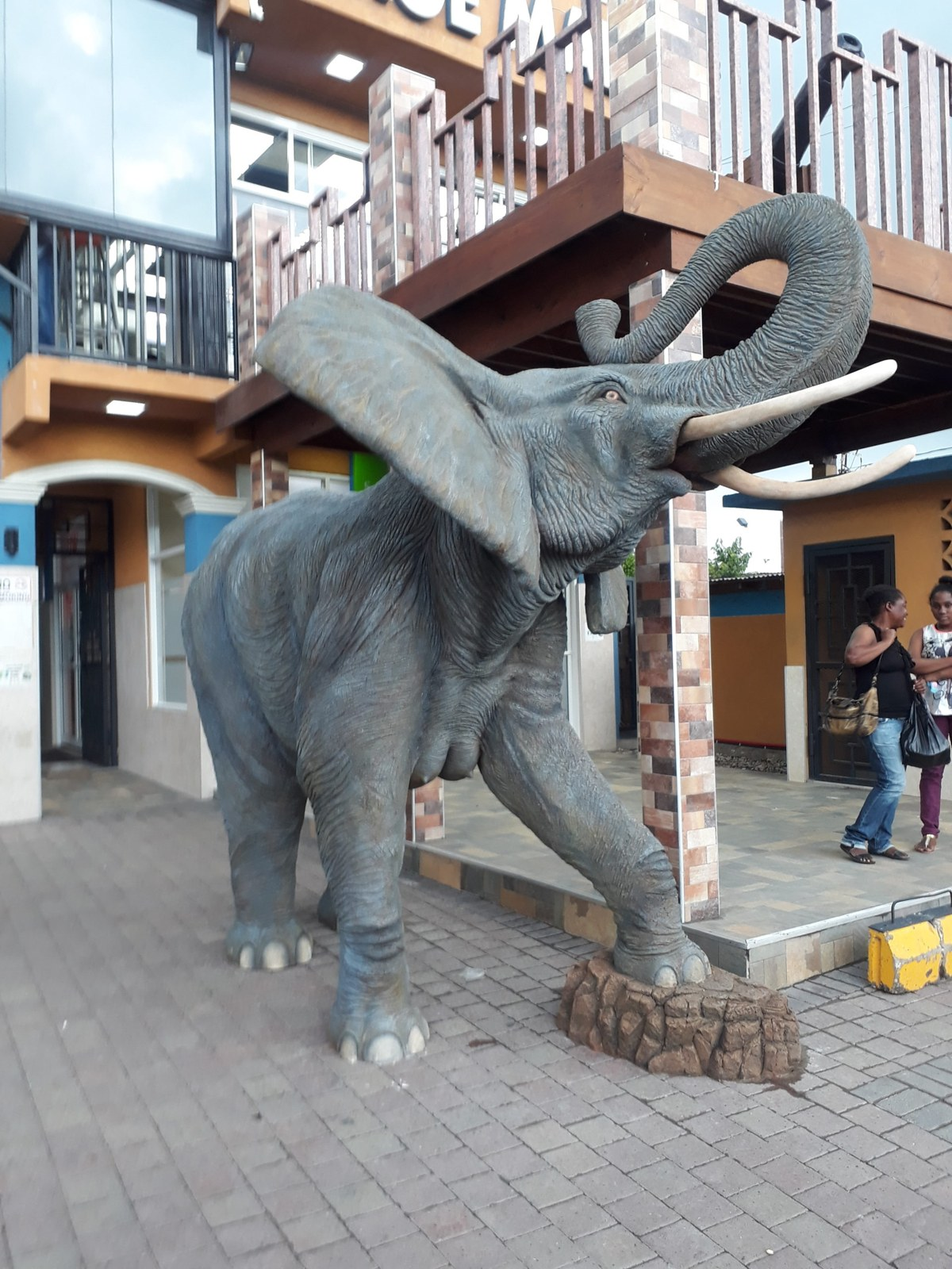
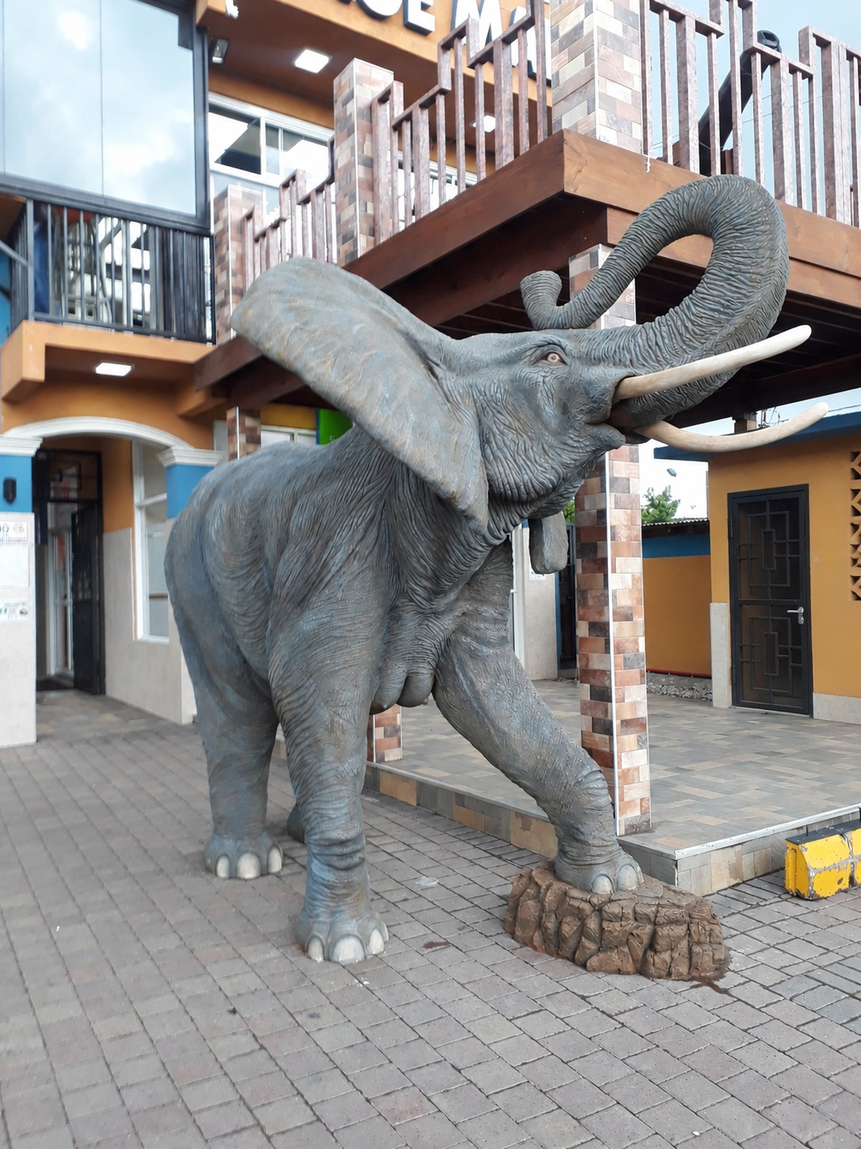
Protect elephant visitor privacy, fill horse cover and credit Hellshire image

diff --git a/work.html b/work.html
@@ -9,4 +9,4 @@
 <article class="editorial-project reveal" id="selected-project-8"><div class="editorial-media"><img src="images/hellshire-entrance.jpg" alt="Castle-shaped entrance arch welcoming visitors to Hellshire Beach" width="800" height="600" loading="lazy" style="display:block;width:100%;height:100%;object-fit:cover;object-position:center;object-fit:cover;object-position:center"></div><div class="editorial-copy"><h2>Hellshire Beach</h2><p class="editorial-meta">Hellshire · Jamaica</p><p class="editorial-type">Architectural &amp; sculptural structures</p><p class="editorial-description">Design and construction work for Hellshire Beach, including an entrance vestibule and gazebos.</p><div class="editorial-links"><a href="project-hellshire-beach.html">PROJECT<svg class="project-cta-arrow" viewBox="0 0 20 20" fill="none" stroke="currentColor" stroke-width="1.5" stroke-linecap="square" stroke-linejoin="miter" aria-hidden="true" focusable="false"><g transform="rotate(0 10 10)"><path d="M4 16 16 4M5 4h11v11"/></g></svg></a><a href="press-hellshire-beach.html">PRESS<svg class="project-cta-arrow" viewBox="0 0 20 20" fill="none" stroke="currentColor" stroke-width="1.5" stroke-linecap="square" stroke-linejoin="miter" aria-hidden="true" focusable="false"><g transform="rotate(0 10 10)"><path d="M4 16 16 4M5 4h11v11"/></g></svg></a></div></div></article>
 <article class="editorial-project reveal" id="selected-project-16"><div class="editorial-media"><img src="images/usain/usain-7811.jpg" alt="Usain Bolt portrait sculpture in his signature victory pose with the Jamaican flag" width="1800" height="1200" loading="lazy" style="display:block;width:100%;height:100%;object-fit:cover;object-position:center"></div><div class="editorial-copy"><h2>Usain Bolt</h2><p class="editorial-meta">S Hotel · Montego Bay</p><p class="editorial-type">Portrait sculpture</p><p class="editorial-description">A portrait of Usain Bolt in his signature victory pose, holding the Jamaican flag, created for S Hotel Montego Bay.</p><div class="editorial-links"><a href="project-usain-bolt.html">PROJECT<svg class="project-cta-arrow" viewBox="0 0 20 20" fill="none" stroke="currentColor" stroke-width="1.5" stroke-linecap="square" stroke-linejoin="miter" aria-hidden="true" focusable="false"><g transform="rotate(0 10 10)"><path d="M4 16 16 4M5 4h11v11"/></g></svg></a><a href="press-usain-bolt.html">PRESS<svg class="project-cta-arrow" viewBox="0 0 20 20" fill="none" stroke="currentColor" stroke-width="1.5" stroke-linecap="square" stroke-linejoin="miter" aria-hidden="true" focusable="false"><g transform="rotate(0 10 10)"><path d="M4 16 16 4M5 4h11v11"/></g></svg></a></div></div></article>
 <article class="editorial-project reveal" id="selected-project-12"><div class="editorial-media" style="background:transparent"><img src="images/miss-lou/miss-lou-work-landscape.jpg" alt="Full Miss Lou sculpture with raised hands and traditional dress at S Hotel" width="1536" height="864" loading="lazy" style="display:block;width:100%;height:100%;object-fit:cover;object-position:65% center"></div><div class="editorial-copy"><h2>Miss Lou</h2><p class="editorial-meta">Jamaica</p><p class="editorial-type">Portrait sculpture</p><p class="editorial-description">A sculptural representation of Jamaican cultural icon Louise Bennett-Coverley, better known as Miss Lou.</p><div class="editorial-links"><a href="project-miss-lou.html">PROJECT<svg class="project-cta-arrow" viewBox="0 0 20 20" fill="none" stroke="currentColor" stroke-width="1.5" stroke-linecap="square" stroke-linejoin="miter" aria-hidden="true" focusable="false"><g transform="rotate(0 10 10)"><path d="M4 16 16 4M5 4h11v11"/></g></svg></a><a href="press-miss-lou.html">PRESS<svg class="project-cta-arrow" viewBox="0 0 20 20" fill="none" stroke="currentColor" stroke-width="1.5" stroke-linecap="square" stroke-linejoin="miter" aria-hidden="true" focusable="false"><g transform="rotate(0 10 10)"><path d="M4 16 16 4M5 4h11v11"/></g></svg></a></div></div></article>
-<article class="editorial-project reveal" id="selected-project-14"><div class="editorial-media"><img src="images/pf-changs-horse.jpg" alt="Gold P.F. Chang’s horse sculpture with red and black saddle outside the workshop" width="994" height="1062" loading="lazy" style="display:block;width:100%;height:100%;object-fit:cover;object-position:center top"></div><div class="editorial-copy"><h2>12-foot Horse — P.F. Chang’s</h2><p class="editorial-meta">USA</p><p class="editorial-type">12-foot sculptural installation</p><p class="editorial-description">A signature stylized horse created for P.F. Chang’s, measuring 12 feet high and 12 feet long. The commission marked the studio’s first major international project.</p><div class="editorial-links"><a href="project-pf-changs-horse.html">PROJECT<svg class="project-cta-arrow" viewBox="0 0 20 20" fill="none" stroke="currentColor" stroke-width="1.5" stroke-linecap="square" stroke-linejoin="miter" aria-hidden="true" focusable="false"><g transform="rotate(0 10 10)"><path d="M4 16 16 4M5 4h11v11"/></g></svg></a></div></div></article><article class="editorial-project reveal" id="first-union-horses"><div class="editorial-media"><img src="images/first-union/first-union-7923.jpg" alt="White rearing horse sculpture between entrance columns" width="1920" height="1280" loading="lazy" style="display:block;width:100%;height:100%;object-fit:contain"></div><div class="editorial-copy"><h2>First Union — Horse Sculptures</h2><p class="editorial-meta">St Andrew · 2018</p><p class="editorial-type">Life-size figurative sculpture</p><p class="editorial-description">Two life-size rearing horses created for First Union Financial Group’s head office on Eastwood Park Road. Contemporary reporting identifies Scheed Cole as their creator and describes the pair as a symbol of the company’s strength.</p><div class="editorial-links"><a href="project-first-union-horses.html">PROJECT<svg class="project-cta-arrow" viewBox="0 0 20 20" fill="none" stroke="currentColor" stroke-width="1.5" aria-hidden="true"><path d="M4 16 16 4M5 4h11v11"/></svg></a></div></div></article><article class="editorial-project reveal" id="selected-archive"><div class="editorial-media"><img src="images/archive/marley-relief.svg" alt="Three expressive Bob Marley portraits in a sculptural relief" loading="lazy" style="display:block;width:100%;height:100%;object-fit:contain"></div><div class="editorial-copy"><h2>Selected Archive</h2><p class="editorial-meta">Jamaica · Selected works</p><p class="editorial-type">Portraits · Public sculpture · Event installations</p><p class="editorial-description">A selection from the studio archive, bringing together expressive portraits, figurative sculpture and immersive event entrances.</p><div class="editorial-links"><a href="project-selected-archive.html">PROJECT<svg class="project-cta-arrow" viewBox="0 0 20 20" fill="none" stroke="currentColor" stroke-width="1.5" aria-hidden="true"><path d="M4 16 16 4M5 4h11v11"/></svg></a></div></div></article></div></section><section id="clients" class="section our-clients"><div class="section-heading"><div><p class="eyebrow">Our clients</p><h2>Big ideas.<br><em>Lasting impressions.</em></h2></div></div><p class="clients-intro">Our clients bring ambitious ideas. We turn them into sculptures, installations and experiences that engage audiences and leave a lasting impression.</p><ul class="client-logos" aria-label="Our clients"><li><img src="images/clients/logo-01.png" alt="Carreras Limited" loading="lazy" decoding="async"></li><li><img src="images/clients/logo-02.png" alt="CB Group" loading="lazy" decoding="async"></li><li><img src="images/clients/logo-03.png" alt="Seprod" loading="lazy" decoding="async"></li><li><img src="images/clients/logo-04.png" alt="360 Recycle Manufacturing" loading="lazy" decoding="async"></li><li><img src="images/clients/logo-05.png" alt="Northern Caribbean University" loading="lazy" decoding="async"></li><li><img src="images/clients/logo-06.png" alt="The Marketing Counselors Ltd" loading="lazy" decoding="async"></li><li><img src="images/clients/logo-07.png" alt="Institute of Jamaica" loading="lazy" decoding="async"></li><li><img src="images/clients/logo-08.png" alt="S Hotel Jamaica" loading="lazy" decoding="async"></li><li><img src="images/clients/logo-09.png" alt="Port Authority of Jamaica" loading="lazy" decoding="async"></li><li><img src="images/clients/logo-10.png" alt="National" loading="lazy" decoding="async"></li><li><img src="images/clients/logo-11.png" alt="Tourism Enhancement Fund" loading="lazy" decoding="async"></li><li><img src="images/clients/logo-12.png" alt="JADCO" loading="lazy" decoding="async"></li><li><img src="images/clients/logo-13.png" alt="Main Event Entertainment Group" loading="lazy" decoding="async"></li><li><img src="images/clients/logo-14.png" alt="National Environment and Planning Agency" loading="lazy" decoding="async"></li><li><img src="images/clients/logo-15.png" alt="National Housing Trust" loading="lazy" decoding="async"></li><li><img src="images/clients/logo-16.png" alt="Tourism Product Development Company" loading="lazy" decoding="async"></li><li><img src="images/clients/logo-17.png" alt="WIHCON" loading="lazy" decoding="async"></li><li><img src="images/clients/logo-18.png" alt="Jamaica Cultural Development Commission" loading="lazy" decoding="async"></li></ul></section><section class="section press-teaser"><div class="section-heading"><div><p class="eyebrow">Explore further</p><h2>Behind<br><em>the work.</em></h2></div></div><div class="press-mini"><a href="about.html">Meet Scheed<svg class="project-cta-arrow" viewBox="0 0 20 20" fill="none" stroke="currentColor" stroke-width="1.5" aria-hidden="true"><path d="M4 16 16 4M5 4h11v11"/></svg></a><a href="press.html">Explore the press<svg class="project-cta-arrow" viewBox="0 0 20 20" fill="none" stroke="currentColor" stroke-width="1.5" aria-hidden="true"><path d="M4 16 16 4M5 4h11v11"/></svg></a><a href="start-a-project.html">Contact the studio<svg class="project-cta-arrow" viewBox="0 0 20 20" fill="none" stroke="currentColor" stroke-width="1.5" aria-hidden="true"><path d="M4 16 16 4M5 4h11v11"/></svg></a></div></section><section class="commission reveal"><p class="eyebrow">International commissions</p><h2>Looking for something<br><em>that doesn't exist yet?</em></h2><p class="commission-copy">Explore what Scheed can create for public spaces, destinations, museums, hospitality and cultural projects.</p><a class="button light" href="services.html">Explore Capabilities<svg class="project-cta-arrow" viewBox="0 0 20 20" fill="none" stroke="currentColor" stroke-width="1.5" stroke-linecap="square" stroke-linejoin="miter" aria-hidden="true" focusable="false"><g transform="rotate(0 10 10)"><path d="M4 16 16 4M5 4h11v11"/></g></svg></a></section></main><footer><span>© 2026 Scheed Cole</span><span>Based in Jamaica · Available worldwide</span><a href="press.html">Press<svg class="project-cta-arrow" viewBox="0 0 20 20" fill="none" stroke="currentColor" stroke-width="1.5" stroke-linecap="square" stroke-linejoin="miter" aria-hidden="true" focusable="false"><g transform="rotate(0 10 10)"><path d="M4 16 16 4M5 4h11v11"/></g></svg></a><a href="index.html">Home<svg class="project-cta-arrow" viewBox="0 0 20 20" fill="none" stroke="currentColor" stroke-width="1.5" stroke-linecap="square" stroke-linejoin="miter" aria-hidden="true" focusable="false"><g transform="rotate(-45 10 10)"><path d="M4 16 16 4M5 4h11v11"/></g></svg></a></footer><script src="script.js?v=menu-order2"></script><script src="cms-preparation/render.js?v=twrphotos1"></script></body></html>
+<article class="editorial-project reveal" id="selected-project-14"><div class="editorial-media"><img src="images/pf-changs-horse.jpg" alt="Gold P.F. Chang’s horse sculpture with red and black saddle outside the workshop" width="994" height="1062" loading="lazy" style="display:block;width:100%;height:100%;object-fit:cover;object-position:center top"></div><div class="editorial-copy"><h2>12-foot Horse — P.F. Chang’s</h2><p class="editorial-meta">USA</p><p class="editorial-type">12-foot sculptural installation</p><p class="editorial-description">A signature stylized horse created for P.F. Chang’s, measuring 12 feet high and 12 feet long. The commission marked the studio’s first major international project.</p><div class="editorial-links"><a href="project-pf-changs-horse.html">PROJECT<svg class="project-cta-arrow" viewBox="0 0 20 20" fill="none" stroke="currentColor" stroke-width="1.5" stroke-linecap="square" stroke-linejoin="miter" aria-hidden="true" focusable="false"><g transform="rotate(0 10 10)"><path d="M4 16 16 4M5 4h11v11"/></g></svg></a></div></div></article><article class="editorial-project reveal" id="first-union-horses"><div class="editorial-media"><img src="images/first-union/first-union-7923.jpg" alt="White rearing horse sculpture between entrance columns" width="1920" height="1280" loading="lazy" style="display:block;width:100%;height:100%;object-fit:cover;object-position:center"></div><div class="editorial-copy"><h2>First Union — Horse Sculptures</h2><p class="editorial-meta">St Andrew · 2018</p><p class="editorial-type">Life-size figurative sculpture</p><p class="editorial-description">Two life-size rearing horses created for First Union Financial Group’s head office on Eastwood Park Road. Contemporary reporting identifies Scheed Cole as their creator and describes the pair as a symbol of the company’s strength.</p><div class="editorial-links"><a href="project-first-union-horses.html">PROJECT<svg class="project-cta-arrow" viewBox="0 0 20 20" fill="none" stroke="currentColor" stroke-width="1.5" aria-hidden="true"><path d="M4 16 16 4M5 4h11v11"/></svg></a></div></div></article><article class="editorial-project reveal" id="selected-archive"><div class="editorial-media"><img src="images/archive/marley-relief.svg" alt="Three expressive Bob Marley portraits in a sculptural relief" loading="lazy" style="display:block;width:100%;height:100%;object-fit:contain"></div><div class="editorial-copy"><h2>Selected Archive</h2><p class="editorial-meta">Jamaica · Selected works</p><p class="editorial-type">Portraits · Public sculpture · Event installations</p><p class="editorial-description">A selection from the studio archive, bringing together expressive portraits, figurative sculpture and immersive event entrances.</p><div class="editorial-links"><a href="project-selected-archive.html">PROJECT<svg class="project-cta-arrow" viewBox="0 0 20 20" fill="none" stroke="currentColor" stroke-width="1.5" aria-hidden="true"><path d="M4 16 16 4M5 4h11v11"/></svg></a></div></div></article></div></section><section id="clients" class="section our-clients"><div class="section-heading"><div><p class="eyebrow">Our clients</p><h2>Big ideas.<br><em>Lasting impressions.</em></h2></div></div><p class="clients-intro">Our clients bring ambitious ideas. We turn them into sculptures, installations and experiences that engage audiences and leave a lasting impression.</p><ul class="client-logos" aria-label="Our clients"><li><img src="images/clients/logo-01.png" alt="Carreras Limited" loading="lazy" decoding="async"></li><li><img src="images/clients/logo-02.png" alt="CB Group" loading="lazy" decoding="async"></li><li><img src="images/clients/logo-03.png" alt="Seprod" loading="lazy" decoding="async"></li><li><img src="images/clients/logo-04.png" alt="360 Recycle Manufacturing" loading="lazy" decoding="async"></li><li><img src="images/clients/logo-05.png" alt="Northern Caribbean University" loading="lazy" decoding="async"></li><li><img src="images/clients/logo-06.png" alt="The Marketing Counselors Ltd" loading="lazy" decoding="async"></li><li><img src="images/clients/logo-07.png" alt="Institute of Jamaica" loading="lazy" decoding="async"></li><li><img src="images/clients/logo-08.png" alt="S Hotel Jamaica" loading="lazy" decoding="async"></li><li><img src="images/clients/logo-09.png" alt="Port Authority of Jamaica" loading="lazy" decoding="async"></li><li><img src="images/clients/logo-10.png" alt="National" loading="lazy" decoding="async"></li><li><img src="images/clients/logo-11.png" alt="Tourism Enhancement Fund" loading="lazy" decoding="async"></li><li><img src="images/clients/logo-12.png" alt="JADCO" loading="lazy" decoding="async"></li><li><img src="images/clients/logo-13.png" alt="Main Event Entertainment Group" loading="lazy" decoding="async"></li><li><img src="images/clients/logo-14.png" alt="National Environment and Planning Agency" loading="lazy" decoding="async"></li><li><img src="images/clients/logo-15.png" alt="National Housing Trust" loading="lazy" decoding="async"></li><li><img src="images/clients/logo-16.png" alt="Tourism Product Development Company" loading="lazy" decoding="async"></li><li><img src="images/clients/logo-17.png" alt="WIHCON" loading="lazy" decoding="async"></li><li><img src="images/clients/logo-18.png" alt="Jamaica Cultural Development Commission" loading="lazy" decoding="async"></li></ul></section><section class="section press-teaser"><div class="section-heading"><div><p class="eyebrow">Explore further</p><h2>Behind<br><em>the work.</em></h2></div></div><div class="press-mini"><a href="about.html">Meet Scheed<svg class="project-cta-arrow" viewBox="0 0 20 20" fill="none" stroke="currentColor" stroke-width="1.5" aria-hidden="true"><path d="M4 16 16 4M5 4h11v11"/></svg></a><a href="press.html">Explore the press<svg class="project-cta-arrow" viewBox="0 0 20 20" fill="none" stroke="currentColor" stroke-width="1.5" aria-hidden="true"><path d="M4 16 16 4M5 4h11v11"/></svg></a><a href="start-a-project.html">Contact the studio<svg class="project-cta-arrow" viewBox="0 0 20 20" fill="none" stroke="currentColor" stroke-width="1.5" aria-hidden="true"><path d="M4 16 16 4M5 4h11v11"/></svg></a></div></section><section class="commission reveal"><p class="eyebrow">International commissions</p><h2>Looking for something<br><em>that doesn't exist yet?</em></h2><p class="commission-copy">Explore what Scheed can create for public spaces, destinations, museums, hospitality and cultural projects.</p><a class="button light" href="services.html">Explore Capabilities<svg class="project-cta-arrow" viewBox="0 0 20 20" fill="none" stroke="currentColor" stroke-width="1.5" stroke-linecap="square" stroke-linejoin="miter" aria-hidden="true" focusable="false"><g transform="rotate(0 10 10)"><path d="M4 16 16 4M5 4h11v11"/></g></svg></a></section></main><footer><span>© 2026 Scheed Cole</span><span>Based in Jamaica · Available worldwide</span><a href="press.html">Press<svg class="project-cta-arrow" viewBox="0 0 20 20" fill="none" stroke="currentColor" stroke-width="1.5" stroke-linecap="square" stroke-linejoin="miter" aria-hidden="true" focusable="false"><g transform="rotate(0 10 10)"><path d="M4 16 16 4M5 4h11v11"/></g></svg></a><a href="index.html">Home<svg class="project-cta-arrow" viewBox="0 0 20 20" fill="none" stroke="currentColor" stroke-width="1.5" stroke-linecap="square" stroke-linejoin="miter" aria-hidden="true" focusable="false"><g transform="rotate(-45 10 10)"><path d="M4 16 16 4M5 4h11v11"/></g></svg></a></footer><script src="script.js?v=menu-order2"></script><script src="cms-preparation/render.js?v=twrphotos1"></script></body></html>

diff --git a/project-hellshire-beach.html b/project-hellshire-beach.html
@@ -1,1 +1,1 @@
-<!doctype html><html lang="en"><head><meta charset="UTF-8"><meta name="viewport" content="width=device-width,initial-scale=1"><meta name="description" content="Selected works by Jamaican sculptor Scheed Cole: monumental sculpture, public art, museums, hospitality and cultural installations."><title>Hellshire Beach — Scheed Cole</title><link rel="preconnect" href="https://fonts.googleapis.com"><link rel="preconnect" href="https://fonts.gstatic.com" crossorigin><link href="https://fonts.googleapis.com/css2?family=DM+Sans:wght@400;500;600&family=Playfair+Display:ital,wght@0,500;1,500&display=swap" rel="stylesheet"><link rel="stylesheet" href="styles.css"><style>.project-footer{align-items:center}.project-footer .next-project-link{display:inline-flex;align-items:center;gap:10px;color:var(--ink);min-height:44px}@media(max-width:800px){.project-footer{display:grid;grid-template-columns:1fr auto;gap:16px;align-items:center}.project-footer>span{grid-column:1/-1;grid-row:2}.project-footer .next-project-link{justify-self:end}}</style><style>.project-intro-common .sustainability-image{min-height:0;max-width:none;margin:0}.project-intro-common .sustainability-image img{display:block;width:100%;height:auto!important;max-height:640px;object-fit:contain}.project-intro-common .sustainability-image a{display:block}@media(max-width:800px){.project-intro-common .sustainability-image{max-width:440px;width:100%;margin-inline:auto}}</style></head><body><header class="site-header"><a class="brand" href="index.html">SC<span>.</span></a><nav class="desktop-nav"><a href="work.html">Work</a><a href="about.html">About</a><a href="studio.html">Studio</a><a href="services.html">Services</a><a href="press.html">Press</a><a href="start-a-project.html">Contact</a><a href="shop.html">Shop</a></nav><a class="header-cta" href="start-a-project.html"><span class="project-cta-label">Start a Project</span><svg class="project-cta-arrow" viewBox="0 0 20 20" fill="none" stroke="currentColor" stroke-width="1.5" stroke-linecap="square" stroke-linejoin="miter" aria-hidden="true" focusable="false"><path d="M4 16 16 4M5 4h11v11"/></svg></a><button class="menu-toggle" aria-label="Open menu" aria-expanded="false">Menu</button></header><main><section class="page-hero"><p class="eyebrow">Hellshire · Jamaica</p><h1>Hellshire Beach</h1><p>Architectural &amp; sculptural structures</p></section><section class="sustainability project-intro-common"><figure class="sustainability-image"><img src="images/hellshire-entrance.jpg" alt="Castle-shaped entrance arch welcoming visitors to Hellshire Beach" width="800" height="600" style="display:block;width:100%;height:auto"></figure><div class="sustainability-copy"><p class="eyebrow">The project</p><h2>A seaside setting.<br><em>Designed to welcome.</em></h2><p>Scheed Cole’s work at Hellshire Beach combines sculpture with the design of a public seaside setting. The castle-shaped entrance gives the beach a recognisable arrival point, translating the familiar form of a sandcastle into an architectural feature visitors can walk through.</p><p>The wider work included gazebos and improvements to the beach’s commercial surroundings. Carolyn Cooper documented Cole and his design team working on the Hellshire renewal in 2010, while Cole later identified the sandcastle monument among his projects in a 2014 interview.</p><p>The project shows another side of his practice: using sculptural form to shape the character of a place, alongside its everyday use by vendors, residents and visitors.</p></div></section><section class="section press-teaser" id="in-the-press"><div class="section-heading"><div><p class="eyebrow">In the press</p><h2>Design<br><em>by the sea.</em></h2></div></div><p style="max-width:760px;line-height:1.7">Selected articles and interviews related to this project.</p><ul style="list-style:none;padding:0;margin:32px 0 0;max-width:960px"><li style="padding:16px 0;border-top:1px solid var(--line,rgba(0,0,0,.15))"><p class="eyebrow" style="margin:0 0 8px">Jamaica Observer · 2014-03-01</p><a class="text-link" style="white-space:normal;line-height:1.5" href="https://www.jamaicaobserver.com/2014/03/01/scheed-cole-sculptural-design-engineer/" target="_blank" rel="noopener">Scheed Cole: sculptural design engineer<svg class="project-cta-arrow" viewBox="0 0 20 20" fill="none" stroke="currentColor" stroke-width="1.5" aria-hidden="true"><path d="M4 16 16 4M5 4h11v11"/></svg></a></li></ul></section></main><footer class="project-footer" id="project-navigation"><a href="work.html">All Work</a><span>© 2026 Scheed Cole</span><a class="next-project-link" href="project-usain-bolt.html">Next Project<svg class="project-cta-arrow" viewBox="0 0 20 20" fill="none" stroke="currentColor" stroke-width="1.5" aria-hidden="true"><path d="M4 10h12M11 5l5 5-5 5"/></svg></a></footer><script src="script.js?v=menu-order2"></script><script src="cms-preparation/project-detail.js"></script></body></html>
+<!doctype html><html lang="en"><head><meta charset="UTF-8"><meta name="viewport" content="width=device-width,initial-scale=1"><meta name="description" content="Selected works by Jamaican sculptor Scheed Cole: monumental sculpture, public art, museums, hospitality and cultural installations."><title>Hellshire Beach — Scheed Cole</title><link rel="preconnect" href="https://fonts.googleapis.com"><link rel="preconnect" href="https://fonts.gstatic.com" crossorigin><link href="https://fonts.googleapis.com/css2?family=DM+Sans:wght@400;500;600&family=Playfair+Display:ital,wght@0,500;1,500&display=swap" rel="stylesheet"><link rel="stylesheet" href="styles.css"><style>.project-footer{align-items:center}.project-footer .next-project-link{display:inline-flex;align-items:center;gap:10px;color:var(--ink);min-height:44px}@media(max-width:800px){.project-footer{display:grid;grid-template-columns:1fr auto;gap:16px;align-items:center}.project-footer>span{grid-column:1/-1;grid-row:2}.project-footer .next-project-link{justify-self:end}}</style><style>.project-intro-common .sustainability-image{min-height:0;max-width:none;margin:0}.project-intro-common .sustainability-image img{display:block;width:100%;height:auto!important;max-height:640px;object-fit:contain}.project-intro-common .sustainability-image a{display:block}@media(max-width:800px){.project-intro-common .sustainability-image{max-width:440px;width:100%;margin-inline:auto}}</style></head><body><header class="site-header"><a class="brand" href="index.html">SC<span>.</span></a><nav class="desktop-nav"><a href="work.html">Work</a><a href="about.html">About</a><a href="studio.html">Studio</a><a href="services.html">Services</a><a href="press.html">Press</a><a href="start-a-project.html">Contact</a><a href="shop.html">Shop</a></nav><a class="header-cta" href="start-a-project.html"><span class="project-cta-label">Start a Project</span><svg class="project-cta-arrow" viewBox="0 0 20 20" fill="none" stroke="currentColor" stroke-width="1.5" stroke-linecap="square" stroke-linejoin="miter" aria-hidden="true" focusable="false"><path d="M4 16 16 4M5 4h11v11"/></svg></a><button class="menu-toggle" aria-label="Open menu" aria-expanded="false">Menu</button></header><main><section class="page-hero"><p class="eyebrow">Hellshire · Jamaica</p><h1>Hellshire Beach</h1><p>Architectural &amp; sculptural structures</p></section><section class="sustainability project-intro-common"><figure class="sustainability-image"><img src="images/hellshire-entrance.jpg" alt="Castle-shaped entrance arch welcoming visitors to Hellshire Beach" width="800" height="600" style="display:block;width:100%;height:auto"><figcaption style="font-size:12px;line-height:1.5;margin-top:10px">Image source: <a href="https://richeskarayib.com/scheed-cole/" target="_blank" rel="noopener">Richès Karayib</a></figcaption></figure><div class="sustainability-copy"><p class="eyebrow">The project</p><h2>A seaside setting.<br><em>Designed to welcome.</em></h2><p>Scheed Cole’s work at Hellshire Beach combines sculpture with the design of a public seaside setting. The castle-shaped entrance gives the beach a recognisable arrival point, translating the familiar form of a sandcastle into an architectural feature visitors can walk through.</p><p>The wider work included gazebos and improvements to the beach’s commercial surroundings. Carolyn Cooper documented Cole and his design team working on the Hellshire renewal in 2010, while Cole later identified the sandcastle monument among his projects in a 2014 interview.</p><p>The project shows another side of his practice: using sculptural form to shape the character of a place, alongside its everyday use by vendors, residents and visitors.</p></div></section><section class="section press-teaser" id="in-the-press"><div class="section-heading"><div><p class="eyebrow">In the press</p><h2>Design<br><em>by the sea.</em></h2></div></div><p style="max-width:760px;line-height:1.7">Selected articles and interviews related to this project.</p><ul style="list-style:none;padding:0;margin:32px 0 0;max-width:960px"><li style="padding:16px 0;border-top:1px solid var(--line,rgba(0,0,0,.15))"><p class="eyebrow" style="margin:0 0 8px">Jamaica Observer · 2014-03-01</p><a class="text-link" style="white-space:normal;line-height:1.5" href="https://www.jamaicaobserver.com/2014/03/01/scheed-cole-sculptural-design-engineer/" target="_blank" rel="noopener">Scheed Cole: sculptural design engineer<svg class="project-cta-arrow" viewBox="0 0 20 20" fill="none" stroke="currentColor" stroke-width="1.5" aria-hidden="true"><path d="M4 16 16 4M5 4h11v11"/></svg></a></li></ul></section></main><footer class="project-footer" id="project-navigation"><a href="work.html">All Work</a><span>© 2026 Scheed Cole</span><a class="next-project-link" href="project-usain-bolt.html">Next Project<svg class="project-cta-arrow" viewBox="0 0 20 20" fill="none" stroke="currentColor" stroke-width="1.5" aria-hidden="true"><path d="M4 10h12M11 5l5 5-5 5"/></svg></a></footer><script src="script.js?v=menu-order2"></script><script src="cms-preparation/project-detail.js"></script></body></html>
